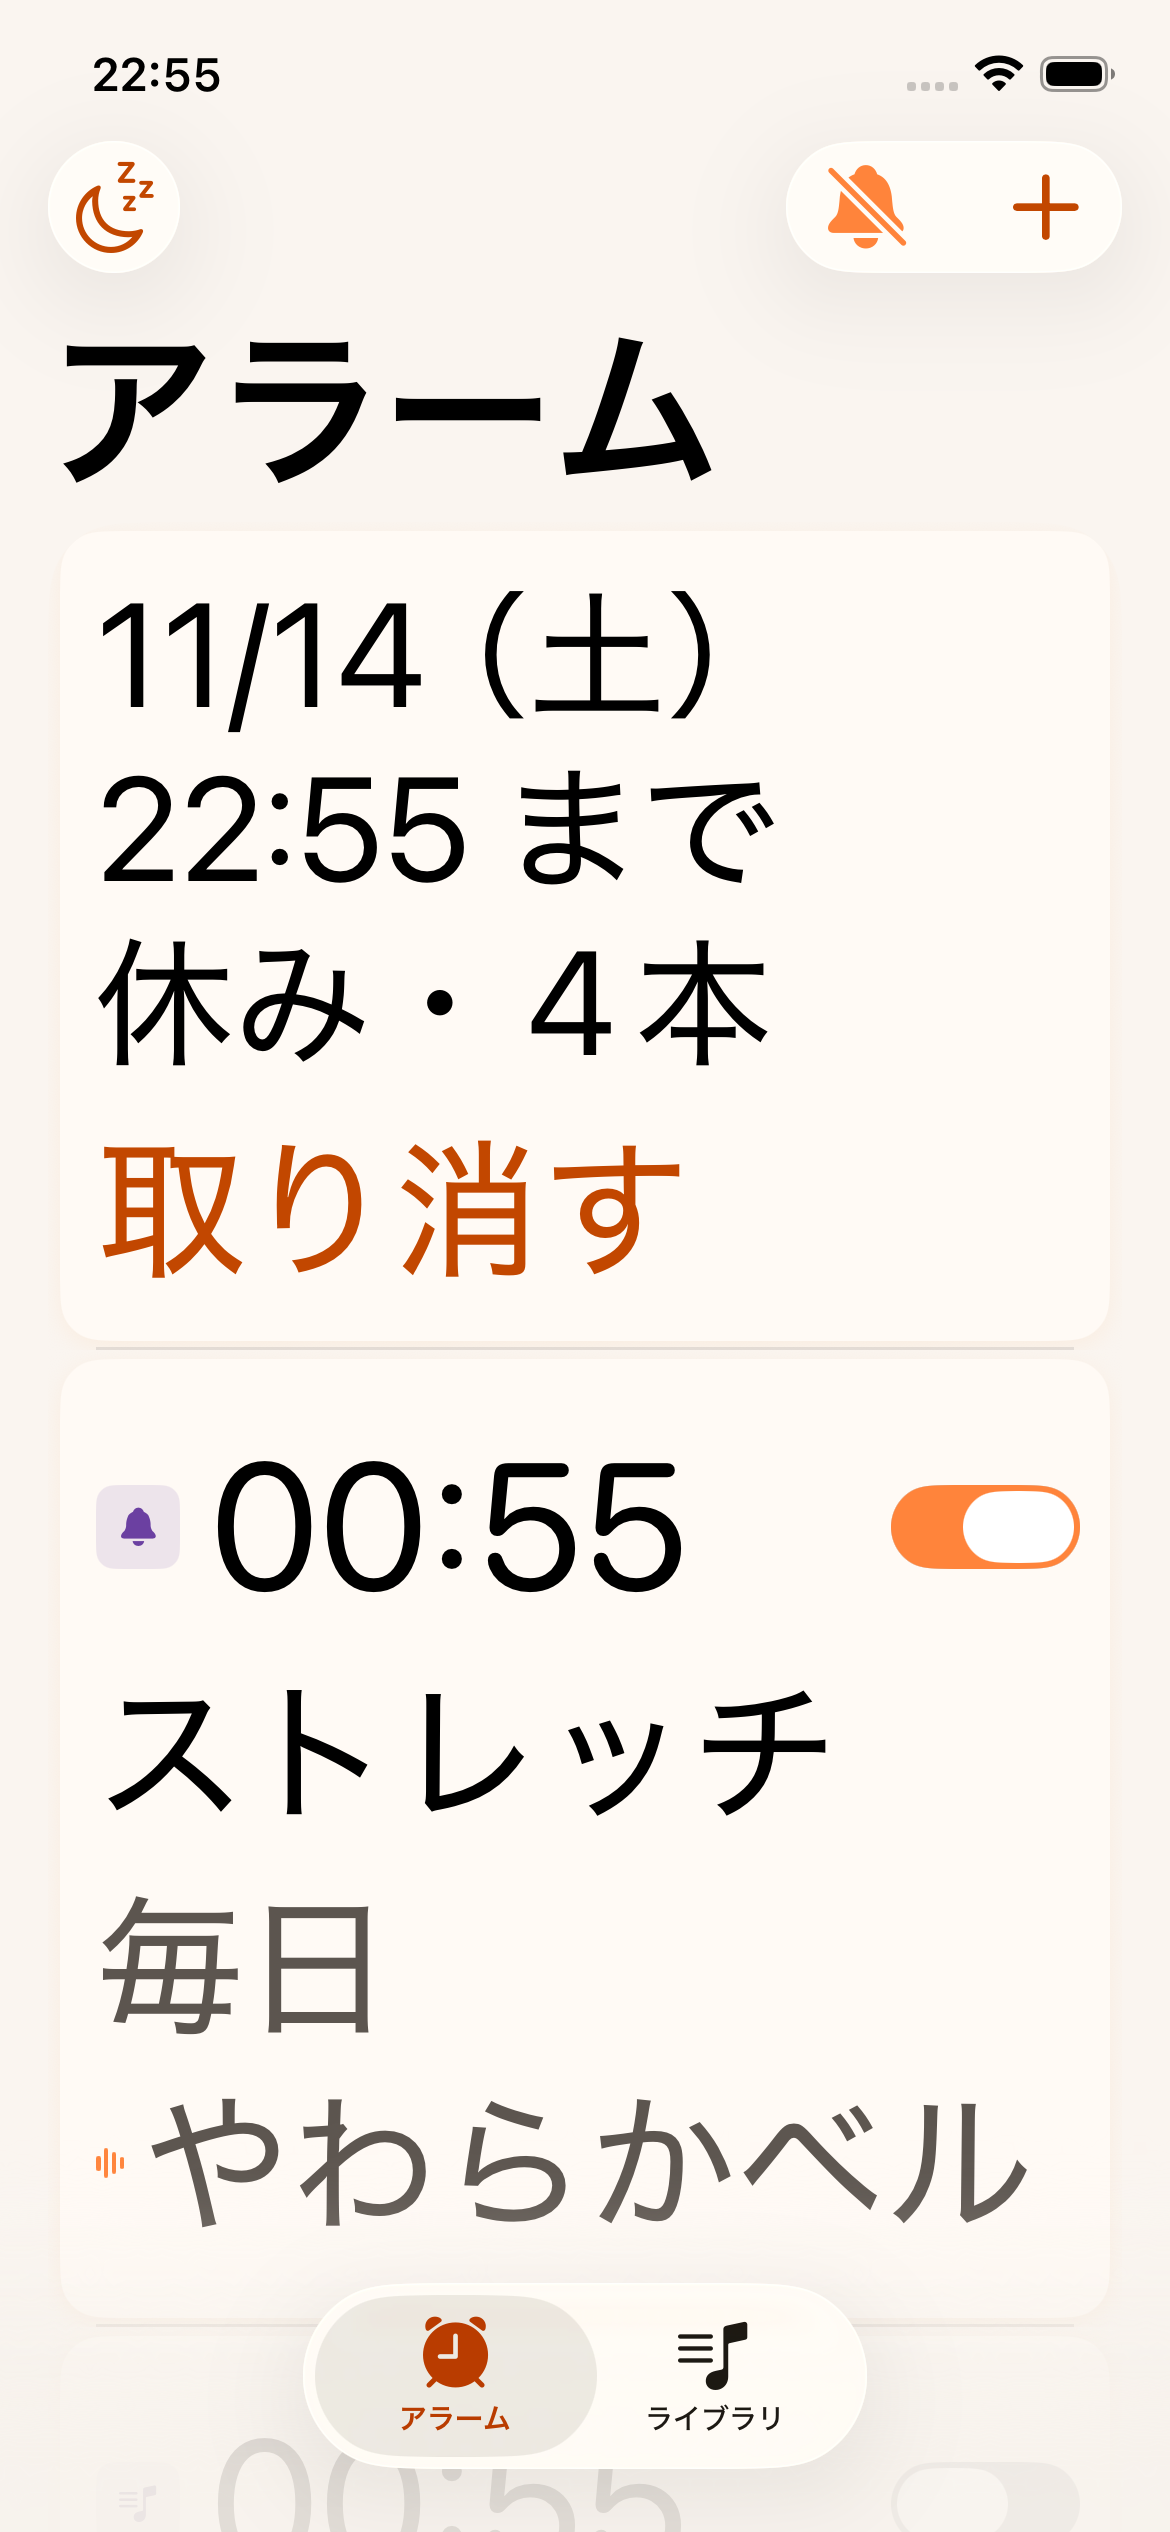
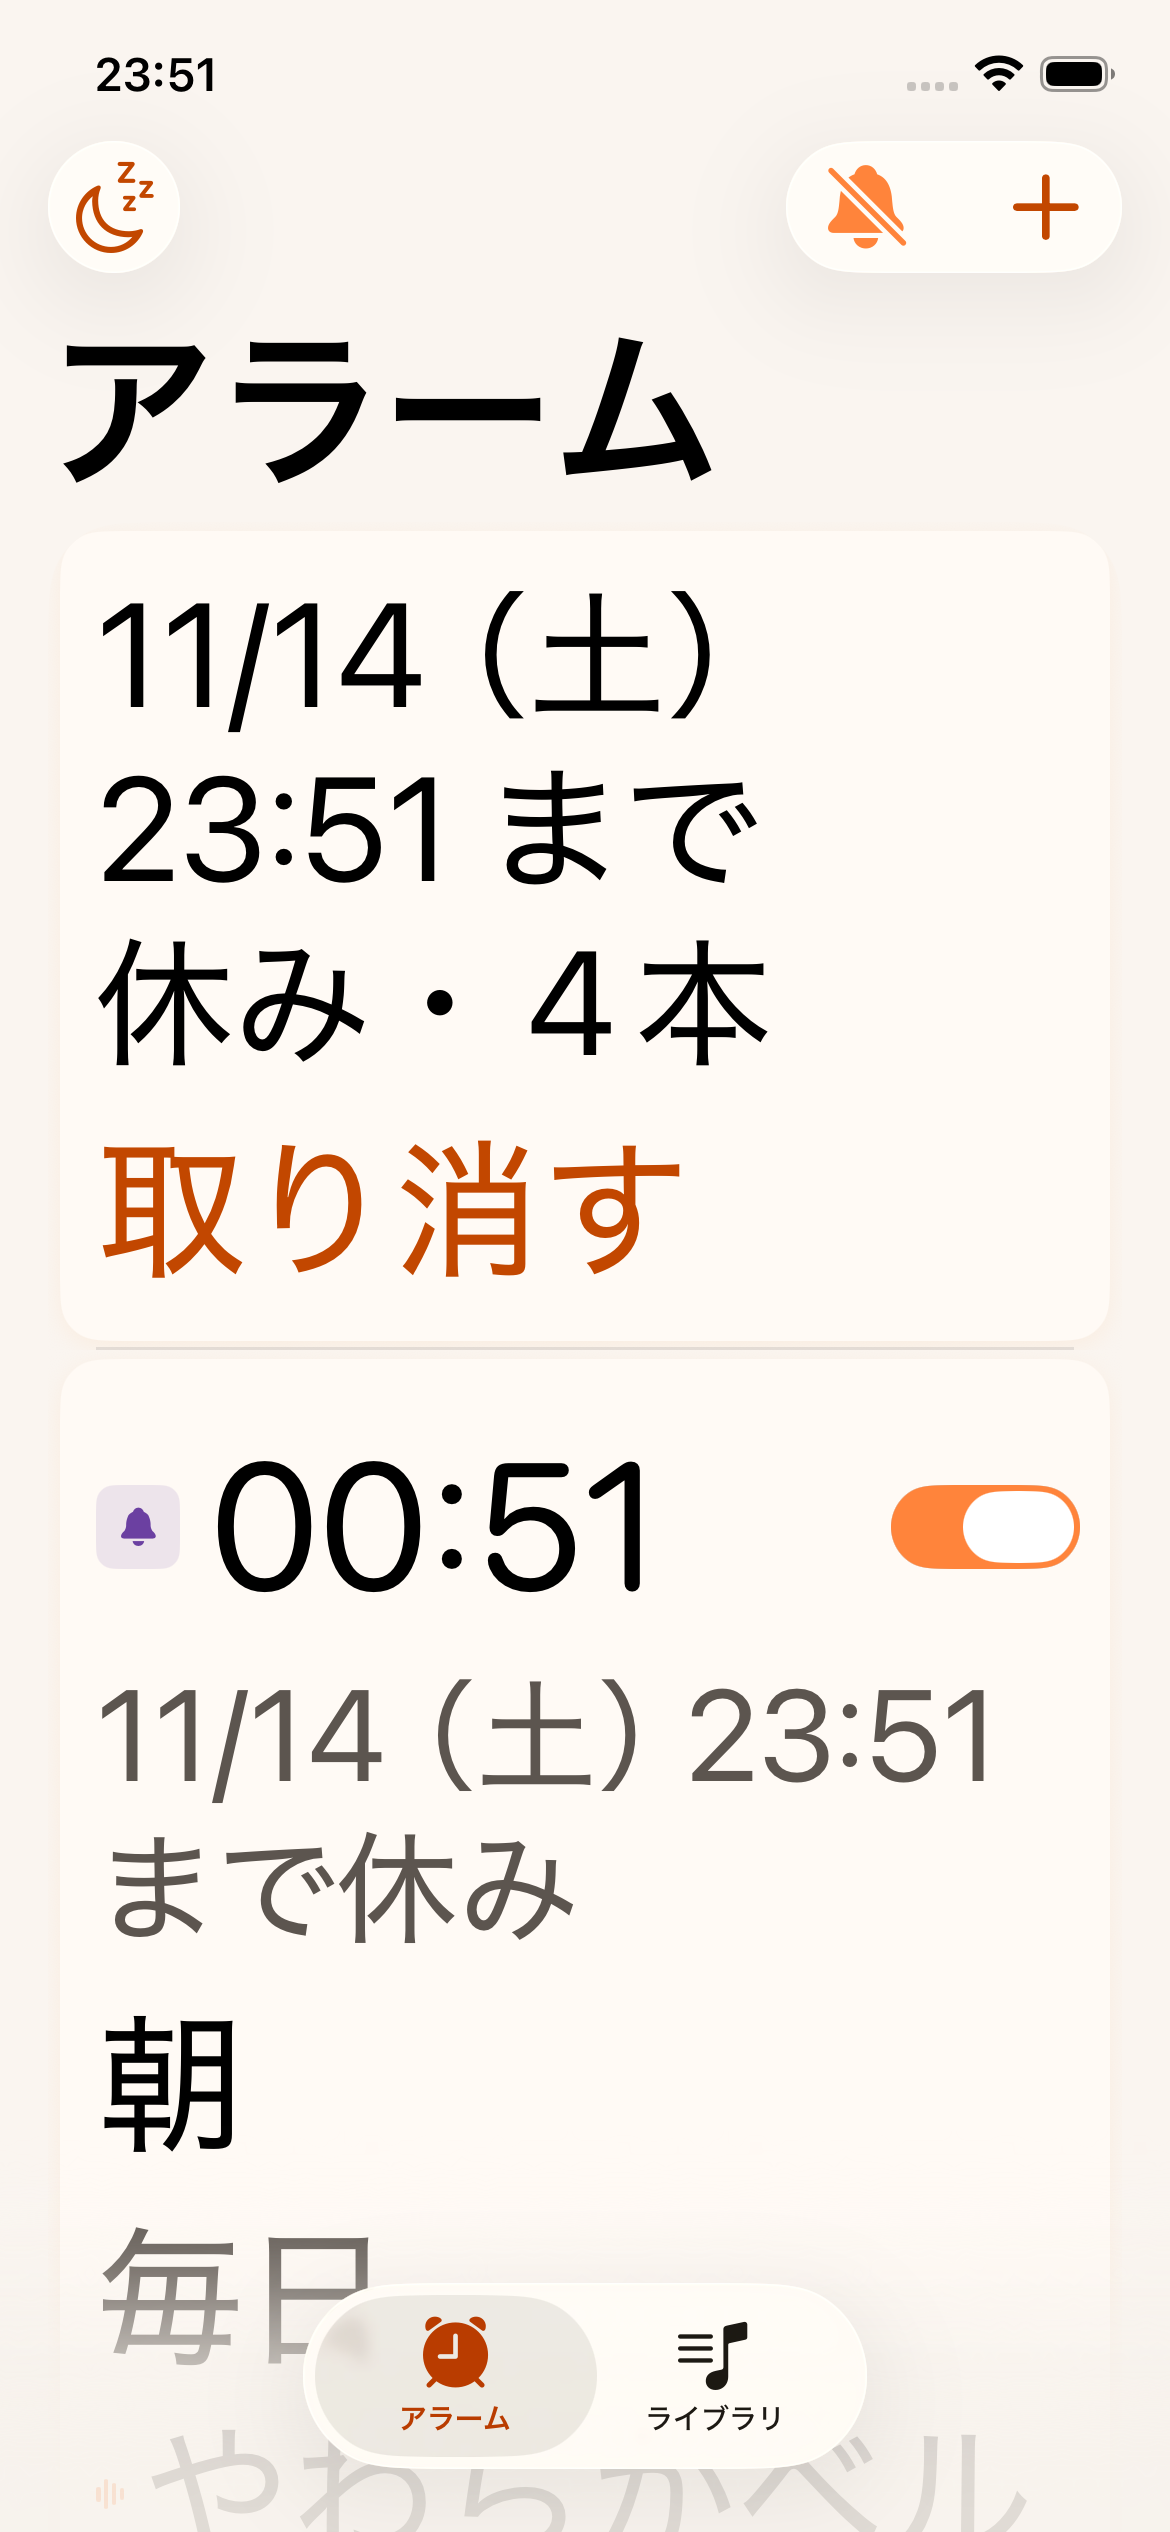
fix(skip): use ring counts in the rest sheet and show the global rest line (#197)
- The rest sheet's rows now use the number of times the alarms ring
  ("4回", "10回") in all 13 languages. The list-top row keeps the
  number of alarms ("4本").
- While a global rest is active, each included alarm row shows
  "11/14（土）23:50 まで休み" under the time, in the same style as the
  individual skip line. One-time alarms stopped by the global rest
  stay off with no line.
- Add unit tests for the alarm count, the row-line decision, and the
  count wording in every language.

diff --git a/CustomSoundAlarmTests/Models/LocalizationCopyTests.swift b/CustomSoundAlarmTests/Models/LocalizationCopyTests.swift
@@ -42,4 +42,86 @@ struct LocalizationCopyTests {
         #expect(strings["backup_alarm_row_badge"] == "寝過ごし防止あり")
         #expect(strings["backup_alarm_title_fmt"] == "寝過ごし防止：%@")
     }
+
+    // MARK: - #197 休みの回数表記
+
+    private static let languages = [
+        "en", "ja", "fr", "de", "es", "pt-BR", "it", "nl", "ko", "zh-Hans", "ar", "pl", "cs"
+    ]
+
+    private func strings(for language: String) throws -> [String: String] {
+        let path = try #require(
+            Bundle.main.path(
+                forResource: "Localizable",
+                ofType: "strings",
+                inDirectory: nil,
+                forLocalization: language
+            ),
+            "Localizable.strings for \(language)"
+        )
+        return try #require(NSDictionary(contentsOfFile: path) as? [String: String])
+    }
+
+    @Test
+    func skipOccurrenceCountsUseTimesInEveryLanguage() throws {
+        let expected = [
+            "en": "until %@ · %d times",
+            "ja": "%@ まで・%d回",
+            "fr": "jusqu’à %@ · %d fois",
+            "de": "bis %@ · %d Mal",
+            "es": "hasta el %@ · %d veces",
+            "pt-BR": "até %@ · %d vezes",
+            "it": "fino a %@ · %d volte",
+            "nl": "tot %@ · %d keer",
+            "ko": "%@ 까지 · %d회",
+            "zh-Hans": "至 %@ · %d次",
+            "ar": "حتى %@ · %d مرات",
+            "pl": "do %@ · %d razy",
+            "cs": "do %@ · %d krát",
+        ]
+        for language in Self.languages {
+            let strings = try strings(for: language)
+            #expect(
+                strings["skip_all_row_fmt"] == expected[language],
+                "\(language): \(strings["skip_all_row_fmt"] ?? "nil")"
+            )
+        }
+    }
+
+    @Test
+    func restSheetKeepsAlarmCountInJapanese() throws {
+        let strings = try strings(for: "ja")
+        let row = try #require(strings["skip_all_row_fmt"])
+        let top = try #require(strings["skip_all_active_fmt"])
+        #expect(row.contains("回"))
+        #expect(!row.contains("本"))
+        #expect(top.contains("本"))
+        #expect(!top.contains("回"))
+    }
+
+    @Test
+    func globalSkipRowCopyExistsInEveryLanguage() throws {
+        let expected = [
+            "en": "Resting until %@",
+            "ja": "%@ まで休み",
+            "fr": "En pause jusqu’à %@",
+            "de": "Pause bis %@",
+            "es": "En pausa hasta el %@",
+            "pt-BR": "Em pausa até %@",
+            "it": "In pausa fino a %@",
+            "nl": "Gepauzeerd tot %@",
+            "ko": "%@ 까지 쉬기",
+            "zh-Hans": "休息至 %@",
+            "ar": "إيقاف مؤقت حتى %@",
+            "pl": "Wstrzymane do %@",
+            "cs": "Pozastaveno do %@",
+        ]
+        for language in Self.languages {
+            let strings = try strings(for: language)
+            #expect(
+                strings["skip_row_global_fmt"] == expected[language],
+                "\(language): \(strings["skip_row_global_fmt"] ?? "nil")"
+            )
+        }
+    }
 }

diff --git a/CustomSoundAlarmTests/Models/AlarmSkipLogicTests.swift b/CustomSoundAlarmTests/Models/AlarmSkipLogicTests.swift
@@ -591,7 +591,7 @@ extension AlarmSkipLogicTests {
     }
 
     @Test
-    func globalSkipCountIncludesDisabledOneTimeAlarms() {
+    func globalSkipAlarmCountIncludesDisabledOneTimeAlarms() {
         let entry = AlarmEntry(hour: 7, minute: 0, repeatWeekdays: [])
         var disabled = entry
         disabled.isEnabled = false
@@ -603,9 +603,54 @@ extension AlarmSkipLogicTests {
             entryIDs: [entry.id],
             disabledOneTimeIDs: [entry.id]
         )
-        #expect(AlarmSkipLogic.globalSkipCount(
-            skip: skip, entries: [disabled], calendar: calendar
+        #expect(AlarmSkipLogic.globalSkipAlarmCount(
+            skip: skip, entries: [disabled]
         ) == 1)
+    }
+
+    @Test
+    func globalSkipAlarmCountDoesNotCountOccurrences() {
+        let entry = repeating([1, 2, 3, 4, 5, 6, 7])
+        let now = date(2026, 11, 13, 12)
+        let skip = GlobalSkip(
+            start: now,
+            end: calendar.date(byAdding: .day, value: 7, to: now)!,
+            entryIDs: [entry.id]
+        )
+        // 7日間で7回鳴っても、一覧上部はアラーム1本。
+        #expect(AlarmSkipLogic.globalSkipAlarmCount(skip: skip, entries: [entry]) == 1)
+    }
+
+    @Test
+    func globalSkipRowEndOnlyForIncludedEnabledAlarms() {
+        let included = repeating([1, 2, 3, 4, 5, 6, 7])
+        let notIncluded = repeating([1, 2, 3, 4, 5, 6, 7])
+        var oneTimeDisabled = AlarmEntry(hour: 7, minute: 0, repeatWeekdays: [])
+        oneTimeDisabled.isEnabled = false
+        oneTimeDisabled.skipDisabledDate = "2026-11-14"
+        let now = date(2026, 11, 13, 12)
+        let end = calendar.date(byAdding: .day, value: 1, to: now)!
+        let skip = GlobalSkip(
+            start: now,
+            end: end,
+            entryIDs: [included.id, oneTimeDisabled.id],
+            disabledOneTimeIDs: [oneTimeDisabled.id]
+        )
+
+        #expect(AlarmSkipLogic.globalSkipRowEnd(
+            for: included, now: now, globalSkip: skip
+        ) == end)
+        #expect(AlarmSkipLogic.globalSkipRowEnd(
+            for: notIncluded, now: now, globalSkip: skip
+        ) == nil)
+        #expect(AlarmSkipLogic.globalSkipRowEnd(
+            for: oneTimeDisabled, now: now, globalSkip: skip
+        ) == nil)
+        #expect(AlarmSkipLogic.globalSkipRowEnd(
+            for: included,
+            now: end.addingTimeInterval(1),
+            globalSkip: skip
+        ) == nil)
     }
 }
 

diff --git a/Shared/AlarmSkipLogic.swift b/Shared/AlarmSkipLogic.swift
@@ -703,26 +703,32 @@ enum AlarmSkipLogic {
         return calendar.startOfDay(for: next ?? now)
     }
 
-    /// 一覧上部に出す「何本」。
+    /// 一覧上部に出す「何本」。鳴る回数ではなく、対象のアラーム数。
     ///
     /// 全体の休みで止めた1回きりのアラームも1本として数える。
-    static func globalSkipCount(
+    static func globalSkipAlarmCount(
         skip: GlobalSkip,
-        entries: [AlarmEntry],
-        calendar: Calendar = .current
+        entries: [AlarmEntry]
     ) -> Int {
-        let interval = DateInterval(start: skip.start, end: skip.end)
-        let disabled = Set(skip.disabledOneTimeIDs)
-        return entries.reduce(0) { total, entry in
-            guard skip.entryIDs.contains(entry.id) else { return total }
-            if entry.isEnabled {
-                return total + occurrences(of: entry, in: interval, calendar: calendar).count
-            }
-            if disabled.contains(entry.id) {
-                return total + 1
-            }
-            return total
+        entries.filter { skip.entryIDs.contains($0.id) }.count
+    }
+
+    /// 行の時刻の下に出す「11/14（土）22:55 まで休み」の終わり。
+    ///
+    /// 全体の休みの対象で、まだオンのアラームだけ。1回きりで止めた行は
+    /// オフのままなので、ここでは何も返さない（#197 レビュー）。
+    static func globalSkipRowEnd(
+        for entry: AlarmEntry,
+        now: Date = Date(),
+        globalSkip: GlobalSkip? = AppGroup.globalSkip
+    ) -> Date? {
+        guard let globalSkip,
+              globalSkip.end > now,
+              globalSkip.entryIDs.contains(entry.id),
+              entry.isEnabled else {
+            return nil
         }
+        return globalSkip.end
     }
 
     // MARK: - 一覧のまとめ

diff --git a/CustomSoundAlarm/Views/ContentView.swift b/CustomSoundAlarm/Views/ContentView.swift
@@ -415,6 +415,13 @@ struct AlarmRow: View {
                         .fixedSize(horizontal: false, vertical: true)
                         .accessibilityIdentifier("skip.row.summary")
                 }
+                if let globalSkipSummaryText {
+                    Text(globalSkipSummaryText)
+                        .font(.caption)
+                        .foregroundStyle(metaColor)
+                        .fixedSize(horizontal: false, vertical: true)
+                        .accessibilityIdentifier("skip.row.globalSummary")
+                }
                 if !alarm.label.isEmpty {
                     Text(alarm.label)
                         .font(.subheadline)
@@ -451,6 +458,14 @@ struct AlarmRow: View {
                     .foregroundStyle(metaColor)
                     .fixedSize(horizontal: false, vertical: true)
                     .accessibilityIdentifier("skip.row.summary")
+            }
+
+            if let globalSkipSummaryText {
+                Text(globalSkipSummaryText)
+                    .font(.caption)
+                    .foregroundStyle(metaColor)
+                    .fixedSize(horizontal: false, vertical: true)
+                    .accessibilityIdentifier("skip.row.globalSummary")
             }
 
             if !alarm.label.isEmpty {
@@ -580,6 +595,14 @@ struct AlarmRow: View {
         return String(
             format: String(localized: "skip_row_summary_no_next_fmt"),
             AlarmSkipFormat.day(summary.skipped)
+        )
+    }
+
+    private var globalSkipSummaryText: String? {
+        guard let end = AlarmSkipLogic.globalSkipRowEnd(for: alarm) else { return nil }
+        return String(
+            format: String(localized: "skip_row_global_fmt"),
+            AlarmSkipFormat.dayAndTime(end)
         )
     }
 

diff --git a/CustomSoundAlarmUITests/AlarmSkipUITests.swift b/CustomSoundAlarmUITests/AlarmSkipUITests.swift
@@ -44,6 +44,11 @@ final class AlarmSkipUITests: XCTestCase {
             notice.waitForExistence(timeout: 10),
             "rest notice should appear: \(app.debugDescription)"
         )
+        let gridLine = app.staticTexts["skip.row.globalSummary"].firstMatch
+        XCTAssertTrue(
+            gridLine.waitForExistence(timeout: 10),
+            "included alarm rows should show the global rest line: \(app.debugDescription)"
+        )
         let undo = app.buttons["skipAll.undo"]
         XCTAssertTrue(undo.exists, "undo should appear: \(app.debugDescription)")
 
@@ -53,6 +58,10 @@ final class AlarmSkipUITests: XCTestCase {
             "notice should disappear after undo"
         )
         XCTAssertTrue(bell.waitForExistence(timeout: 5), "bell should remain")
+        XCTAssertFalse(
+            app.staticTexts["skip.row.globalSummary"].firstMatch.exists,
+            "global rest line should disappear after undo"
+        )
     }
 
     func testLeadingSwipeSkipsNextAndShowsRowSummary() {

diff --git a/CustomSoundAlarm/Views/AlarmSkipViews.swift b/CustomSoundAlarm/Views/AlarmSkipViews.swift
@@ -105,7 +105,7 @@ struct GlobalSkipNoticeRow: View {
     }
 
     private var count: Int {
-        AlarmSkipLogic.globalSkipCount(skip: skip, entries: entries)
+        AlarmSkipLogic.globalSkipAlarmCount(skip: skip, entries: entries)
     }
 }
 
